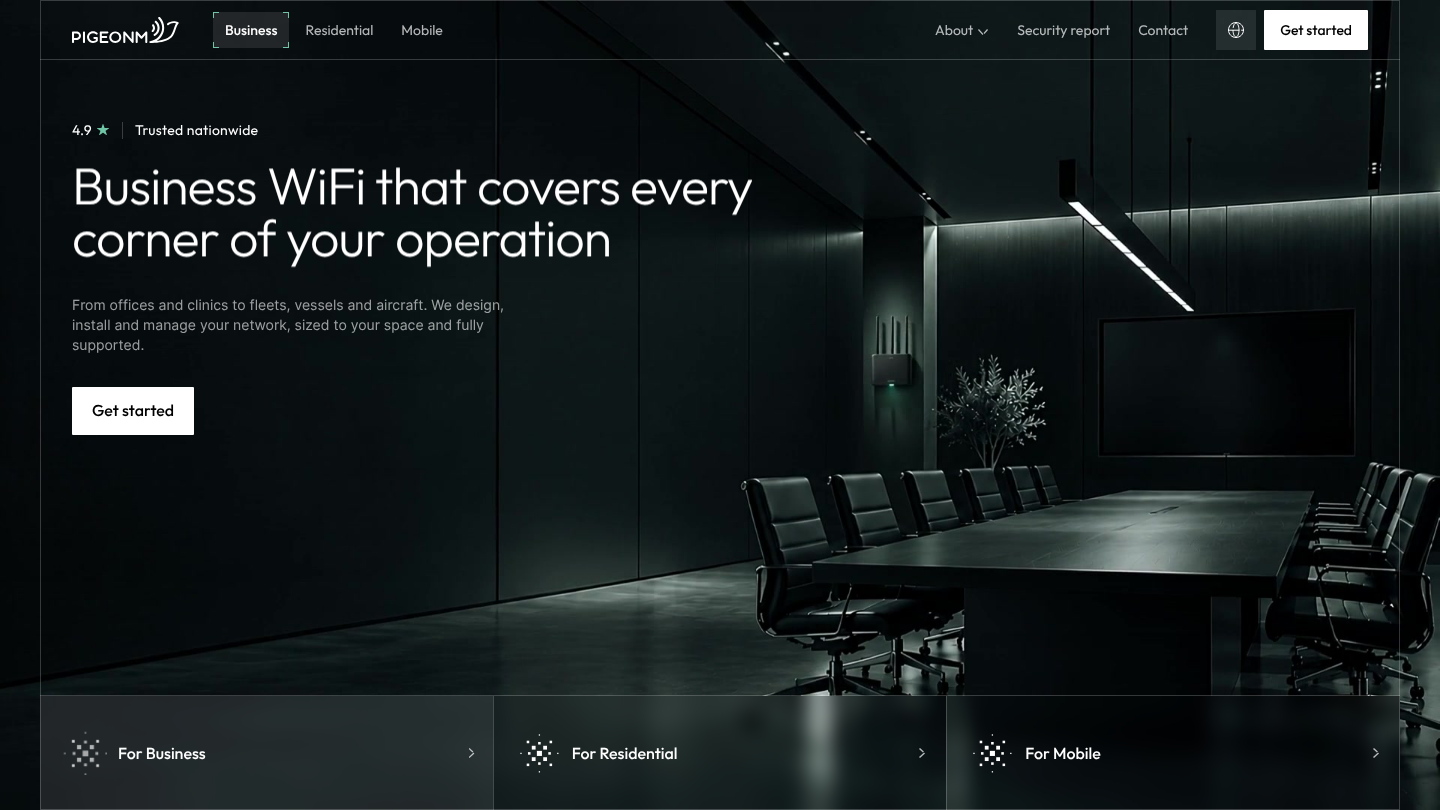
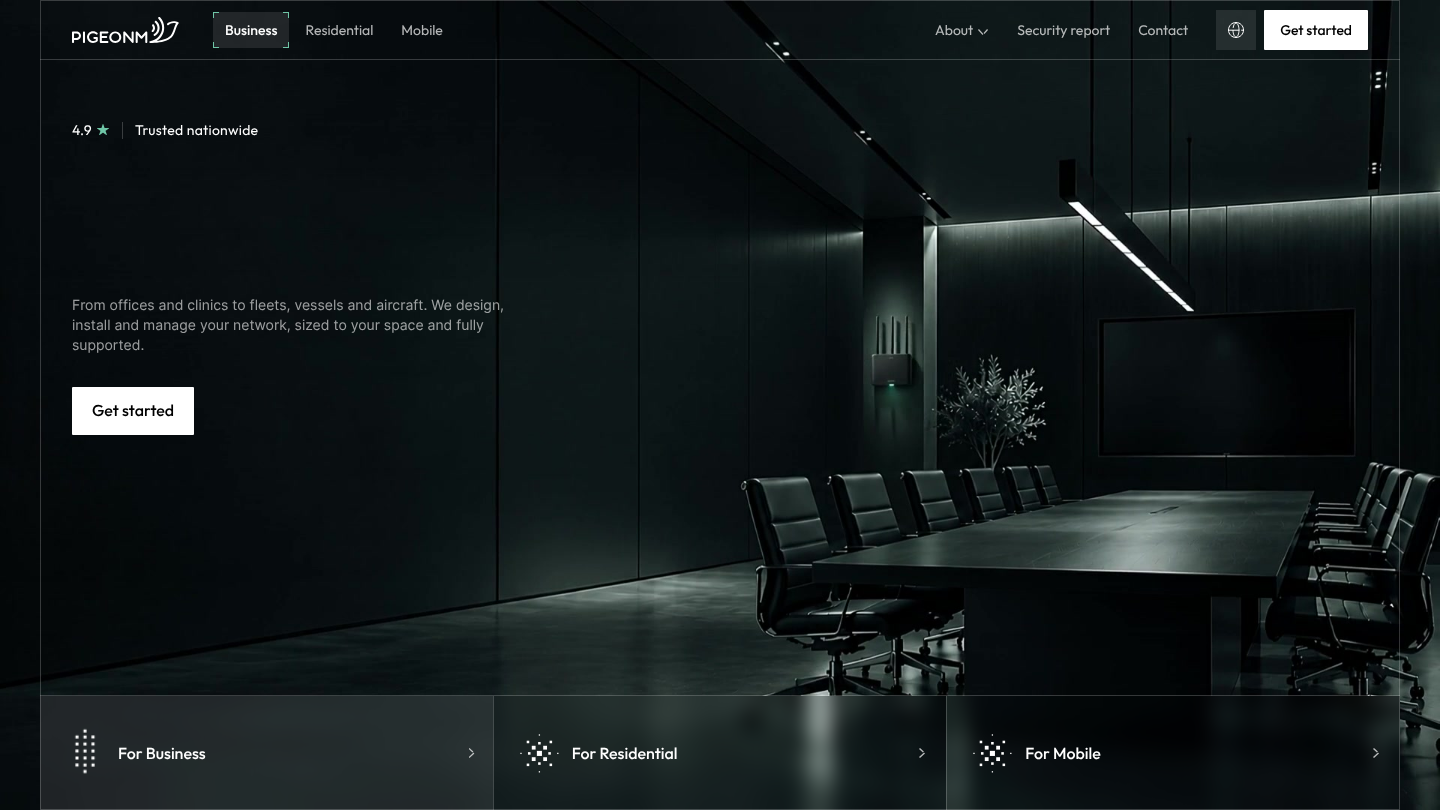
Move tab indicator on click; morph card dots into audience symbols
The active tab pill and card highlight now move as soon as a tab is
clicked instead of after the wipe. On hover, the card's dots regroup into
an office tower (Business), a house (Residential) or a WiFi signal
(Mobile), and fly back on leave.

Claude-Session: https://claude.ai/code/session_01BZiVRp7Q5TXF69CdjiNWd7

Changed region(s): [[0.0312, 0.1852, 0.5312, 0.3395], [0.0312, 0.8951, 0.0625, 0.9568]]

diff --git a/js/hero.js b/js/hero.js
@@ -48,29 +48,71 @@
   const dotsTpl = document.getElementById('dots-icon');
   $$('.card__icon').forEach((slot) => slot.append(dotsTpl.content.cloneNode(true)));
 
-  // On hover the dots pulse in a loop, rippling from the centre outwards.
-  // On leave the current beat plays out, so the icon settles back without a jump.
-  const PULSE = [
-    { transform: 'scale(1)', opacity: 1 },
-    { transform: 'scale(1.14)', opacity: 0.55, offset: 0.45 },
-    { transform: 'scale(1)', opacity: 1 },
-  ];
+  // On hover the 17 dots regroup into a symbol for the audience; on leave they fly back.
+  // Points are dot centres in the icon's 50×50 box; every dot becomes a 3px square.
+  const wifiArc = (r, angles) =>
+    angles.map((a) => [25 + r * Math.cos((a * Math.PI) / 180), 41 + r * Math.sin((a * Math.PI) / 180)]);
+  const SYMBOLS = {
+    // office tower: 3 × 5 windows, door, antenna
+    business: [
+      ...[9, 16, 23, 30, 37].flatMap((y) => [17, 25, 33].map((x) => [x, y])),
+      [25, 43.5],
+      [25, 3],
+    ],
+    // house: roof, walls, two windows, door, ground line
+    residential: [
+      [25, 7], [19.5, 12.5], [30.5, 12.5], [14, 18], [36, 18],
+      [16, 25], [16, 32], [16, 39], [34, 25], [34, 32], [34, 39],
+      [21.5, 27], [28.5, 27], [25, 34], [25, 39], [20.5, 39], [29.5, 39],
+    ],
+    // WiFi signal: a source dot under three arcs
+    mobile: [
+      [25, 41], [25, 41],
+      ...wifiArc(9, [-125, -90, -55]),
+      ...wifiArc(17, [-135, -112, -90, -68, -45]),
+      ...wifiArc(25, [-135, -120, -105, -90, -75, -60, -45]),
+    ],
+  };
+  const DOT = 3;
+  const byPosition = (a, b) => a[1] - b[1] || a[0] - b[0];
+
   cards.forEach((card) => {
-    const groups = ['.dots__cross', '.dots__inner', '.dots__outer'].map((sel) => $(sel, card));
-    let beats = [];
-    card.addEventListener('mouseenter', () => {
-      if (reduceMotion) return;
-      beats.forEach((b) => b.cancel());
-      beats = groups.map((g, i) =>
-        g.animate(PULSE, { duration: 1400, delay: i * 140, iterations: Infinity, easing: 'ease-in-out' })
+    const symbol = SYMBOLS[card.dataset.target];
+    if (!symbol) return;
+    const rects = $$('rect', card);
+    const dots = rects
+      .map((rect) => {
+        const x = +rect.getAttribute('x');
+        const y = +rect.getAttribute('y');
+        const w = +rect.getAttribute('width');
+        return { rect, cx: x + w / 2, cy: y + w / 2, w };
+      })
+      .sort((a, b) => byPosition([a.cx, a.cy], [b.cx, b.cy]));
+    const targets = [...symbol].sort(byPosition);
+
+    // one animation per dot, played forwards on enter and backwards on leave
+    const morphs = dots.map(({ rect, cx, cy, w }, i) => {
+      const [tx, ty] = targets[i];
+      const anim = rect.animate(
+        [
+          { transform: 'translate(0, 0) scale(1)' },
+          { transform: `translate(${tx - cx}px, ${ty - cy}px) scale(${DOT / w})` },
+        ],
+        { duration: 520 + i * 12, easing: 'cubic-bezier(0.65, 0, 0.35, 1)', fill: 'both' }
       );
+      anim.pause();
+      return anim;
     });
-    card.addEventListener('mouseleave', () => {
-      beats.forEach((b) => {
-        const { currentIteration } = b.effect.getComputedTiming();
-        b.effect.updateTiming({ iterations: (currentIteration ?? 0) + 1 });
+
+    const play = (rate) => {
+      if (reduceMotion) return;
+      morphs.forEach((m) => {
+        m.playbackRate = rate;
+        m.play();
       });
-    });
+    };
+    card.addEventListener('mouseenter', () => play(1));
+    card.addEventListener('mouseleave', () => play(-1));
   });
 
   /* ---------- split headings into words ---------- */
@@ -131,15 +173,15 @@
   }
 
   /* ---------- indicator + highlight ---------- */
-  function moveIndicator(animated) {
-    const tab = tabs.find((t) => t.dataset.target === current);
+  function moveIndicator(animated, state = current) {
+    const tab = tabs.find((t) => t.dataset.target === state);
     indicator.classList.toggle('is-animated', animated);
     indicator.style.width = `${tab.offsetWidth}px`;
     indicator.style.transform = `translateX(${tab.offsetLeft}px)`;
   }
 
-  function moveHighlight(animated) {
-    const card = cards.find((c) => c.dataset.target === current);
+  function moveHighlight(animated, state = current) {
+    const card = cards.find((c) => c.dataset.target === state);
     highlight.classList.toggle('is-animated', animated);
     highlight.style.width = `${card.offsetWidth}px`;
     highlight.style.height = `${card.offsetHeight}px`;
@@ -221,8 +263,8 @@
         t.setAttribute('aria-selected', String(on));
       });
       cards.forEach((c) => c.classList.toggle('is-active', c.dataset.target === next));
-      moveIndicator(!reduceMotion);
-      moveHighlight(!reduceMotion);
+      moveIndicator(!reduceMotion, next);
+      moveHighlight(!reduceMotion, next);
     };
 
     if (reduceMotion) {
@@ -243,6 +285,9 @@
     if (nextBg.dataset.src) loadDeferredImages();
     await nextBg.decode().catch(() => {});
 
+    // the tab and card respond right away, the content follows the line
+    markActive();
+
     // 1. the line sweeps across, repainting the background and erasing the old copy as it goes
     const content = $('.hero__content');
     const wiped = wipeBackground(next);
@@ -254,9 +299,8 @@
     prevPanel.setAttribute('aria-hidden', 'true');
     content.getAnimations().forEach((a) => a.cancel());
 
-    // 2. as soon as the line has cleared the copy, the new copy and active states come in
+    // 2. as soon as the line has cleared the copy, the new copy comes in
     //    (the line finishes its last stretch over the empty left margin meanwhile)
-    markActive();
     nextPanel.classList.add('is-active');
     nextPanel.removeAttribute('aria-hidden');
     from($('[data-intro="rating"]'), { opacity: 0, transform: 'translateY(10px)' }, { duration: 700 });

diff --git a/css/hero.css b/css/hero.css
@@ -438,10 +438,10 @@ h1, h2, p { margin: 0; }
   line-height: 24px;
 }
 
-/* dots icon: pulses on hover (js/hero.js) */
-.dots__outer, .dots__inner, .dots__cross {
-  transform-box: view-box;
-  transform-origin: 25px 25px;
+/* dots icon: regroups into an audience symbol on hover (js/hero.js) */
+.card__icon rect {
+  transform-box: fill-box;
+  transform-origin: center;
 }
 
 /* ===== Adaptive (below design width) ===== */
